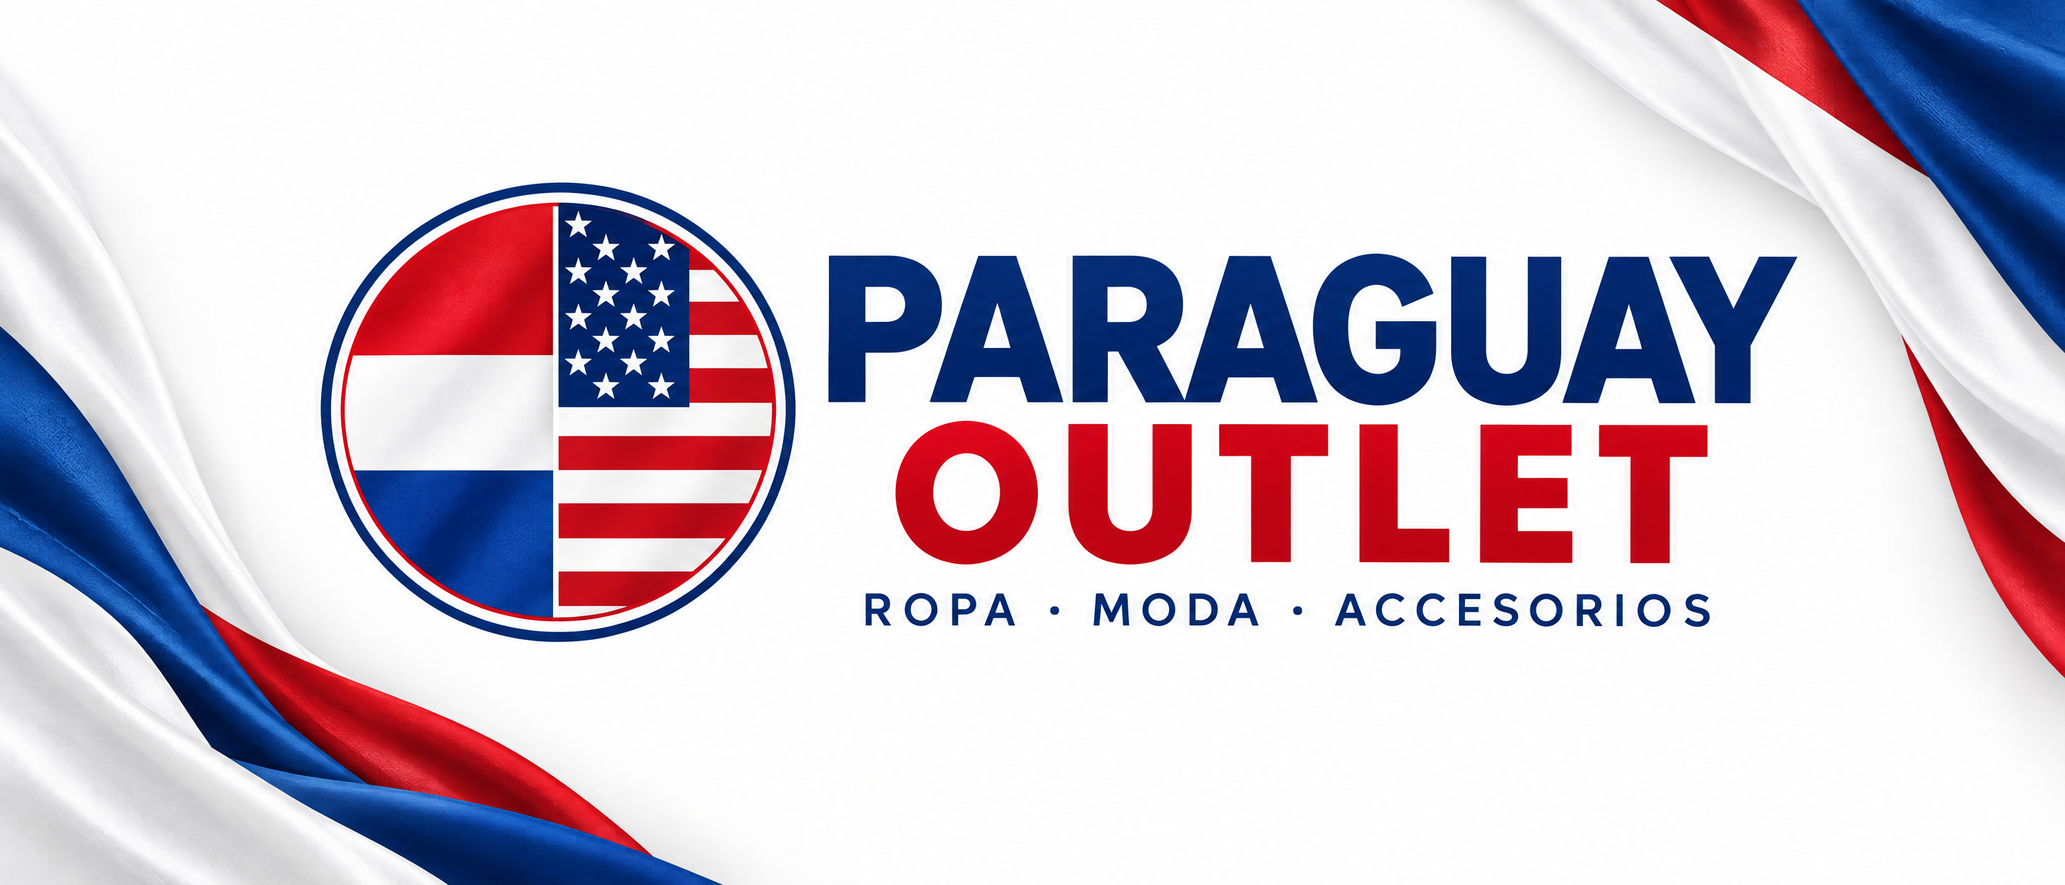
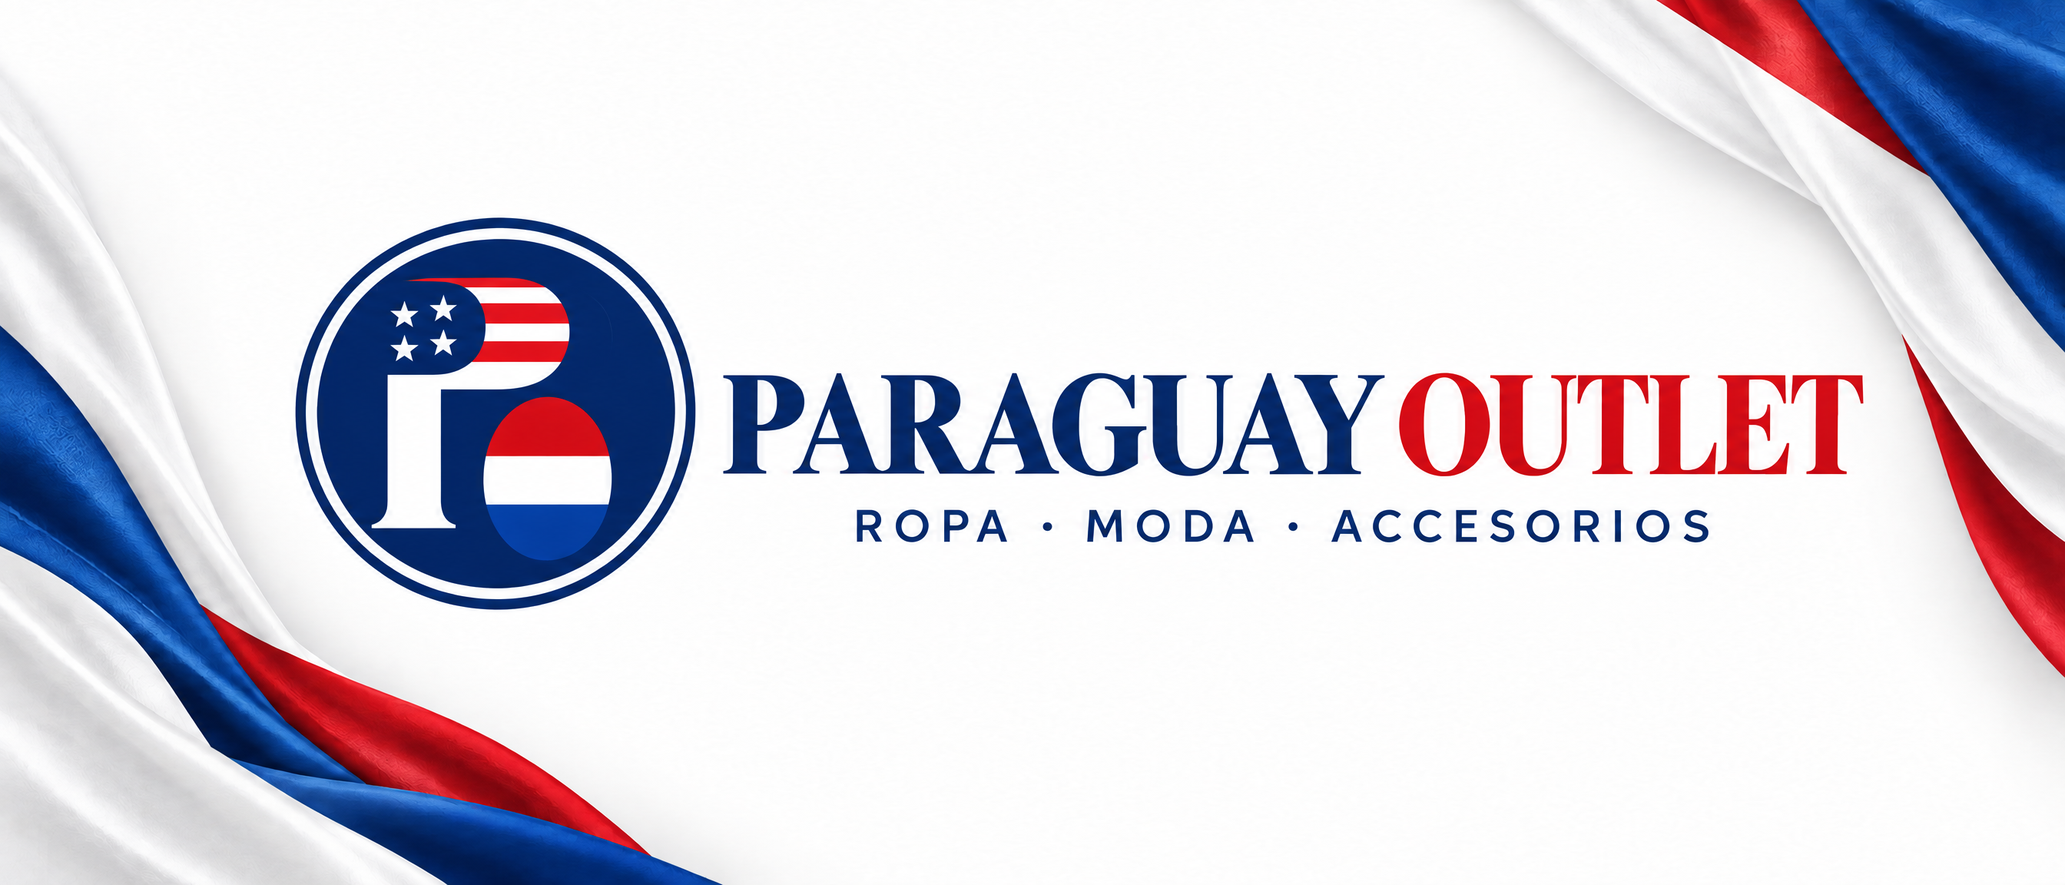
Add files via upload

diff --git a/index.html b/index.html
@@ -9,7 +9,7 @@
   <meta property="og:site_name" content="Paraguay Outlet">
   <meta property="og:title" content="Paraguay Outlet — Estilo en movimiento">
   <meta property="og:description" content="Moda, marcas y accesorios en una experiencia de compra diferente. Consultá por WhatsApp.">
-  <link rel="icon" href="./paraguay-outlet-logo.svg" type="image/svg+xml">
+  <link rel="icon" href="./paraguay-outlet-logo-icon.png" type="image/png" sizes="512x512">
   <title>Paraguay Outlet — Estilo en movimiento</title>
   <style>
     :root {
@@ -73,10 +73,8 @@
       backdrop-filter: blur(18px);
     }
     .nav-row { min-height: 78px; display: flex; align-items: center; justify-content: space-between; gap: 28px; }
-    .brand-lockup { display: inline-flex; align-items: center; gap: 11px; min-width: max-content; }
-    .brand-lockup img { width: 47px; height: 47px; object-fit: contain; border-radius: 50%; border: 0; filter: drop-shadow(0 0 8px rgba(23,59,143,.3)); }
-    .brand-name { display: grid; line-height: 1; gap: 4px; font-size: 12px; letter-spacing: .19em; font-weight: 850; }
-    .brand-name small { color: var(--brand-white); font-size: 9px; letter-spacing: .43em; font-weight: 700; }
+    .brand-lockup { display: inline-flex; align-items: center; min-width: max-content; padding: 5px 9px; border-radius: 11px; background: #fff; }
+    .brand-lockup img { width: auto; height: 46px; object-fit: contain; border-radius: 0; border: 0; filter: none; }
     .nav-links { display: flex; align-items: center; gap: clamp(17px, 3vw, 42px); }
     .nav-links a { color: rgba(255,255,255,.73); font-size: 12px; font-weight: 600; transition: color .2s ease; }
     .nav-links a:hover, .nav-links a:focus-visible { color: var(--brand-white); }
@@ -247,8 +245,8 @@
 
     footer { padding: 24px 0 32px; background: #0c0d0b; color: rgba(255,255,255,.55); }
     .footer-row { display: flex; align-items: center; justify-content: space-between; gap: 20px; }
-    .footer-brand { display: inline-flex; align-items: center; gap: 10px; color: white; font-size: 11px; font-weight: 800; letter-spacing: .15em; }
-    .footer-brand img { width: 31px; height: 31px; border-radius: 50%; object-fit: contain; }
+    .footer-brand { display: inline-flex; align-items: center; padding: 4px 8px; border-radius: 9px; background: #fff; }
+    .footer-brand img { width: auto; height: 32px; object-fit: contain; }
     .footer-note { max-width: 500px; margin: 0; text-align: right; font-size: 9px; line-height: 1.6; }
     .footer-note strong { color: var(--brand-white); }
     .wa-floating {
@@ -274,9 +272,7 @@
       .wrap { width: min(calc(100% - 32px), var(--max)); }
       .announcement { font-size: 8px; letter-spacing: .1em; }
       .nav-row { min-height: 68px; gap: 12px; }
-      .brand-lockup img { width: 40px; height: 40px; }
-      .brand-name { font-size: 10px; }
-      .brand-name small { font-size: 8px; }
+      .brand-lockup img { height: 38px; }
       .menu-toggle { display: block; margin-left: auto; }
       .nav-contact { min-height: 40px; padding: 0 12px; font-size: 10px; }
       .nav-contact .wa-icon { width: 16px; height: 16px; }
@@ -345,8 +341,7 @@
   <header class="topbar">
     <div class="wrap nav-row">
       <a class="brand-lockup" href="#inicio" aria-label="Paraguay Outlet, ir al inicio">
-        <img src="./paraguay-outlet-logo.svg" alt="" width="47" height="47">
-        <span class="brand-name">PARAGUAY<small>OUTLET</small></span>
+        <img src="./paraguay-outlet-logo-principal.png" alt="Paraguay Outlet" width="2526" height="654">
       </a>
       <button class="menu-toggle" id="menu-toggle" type="button" aria-label="Abrir menú" aria-expanded="false" aria-controls="primary-nav"><span></span><span></span></button>
       <nav class="nav-links" id="primary-nav" aria-label="Navegación principal">
@@ -430,31 +425,31 @@
         <div class="product-grid" id="product-grid">
           <article class="product-card" data-category="remeras" data-brand="Calvin Klein" data-search="calvin klein essential white tee remera blanca camiseta">
             <div class="product-visual"><img src="./calvin-klein-tee.webp" alt="Camiseta blanca Calvin Klein en fotografía editorial" loading="lazy" width="1280" height="1600"><span class="product-badge">Esencial</span><span class="product-index">01 / 07</span></div>
-            <div class="product-info"><div class="product-meta"><span>Calvin Klein</span><span class="type">Remera</span></div><h3>Essential White Tee</h3><div class="product-bottom"><div><span class="price-label">Precio de muestra</span><span class="product-price">Gs. 289.000</span></div><a class="product-ask" href="https://wa.me/595971813022" target="_blank" rel="noopener noreferrer" data-product-link="Essential White Tee · Calvin Klein" aria-label="Consultar por Essential White Tee en WhatsApp"><svg viewBox="0 0 24 24" fill="none" stroke="currentColor" stroke-width="1.8" aria-hidden="true"><path d="M5 12h14M13 5l7 7-7 7"></path></svg></a></div></div>
+            <div class="product-info"><div class="product-meta"><span>Calvin Klein</span><span class="type">Remera</span></div><h3>Essential White Tee</h3><div class="product-bottom"><div><span class="price-label">Precio de muestra</span><span class="product-price">Gs. 239.000</span></div><a class="product-ask" href="https://wa.me/595971813022" target="_blank" rel="noopener noreferrer" data-product-link="Essential White Tee · Calvin Klein" aria-label="Consultar por Essential White Tee en WhatsApp"><svg viewBox="0 0 24 24" fill="none" stroke="currentColor" stroke-width="1.8" aria-hidden="true"><path d="M5 12h14M13 5l7 7-7 7"></path></svg></a></div></div>
           </article>
           <article class="product-card" data-category="remeras" data-brand="Tommy Hilfiger" data-search="tommy hilfiger graphic tee navy remera azul camiseta">
             <div class="product-visual"><img src="./tommy-hilfiger-tee.webp" alt="Remera azul marino Tommy Hilfiger con gráfico frontal" loading="lazy" width="418" height="561"><span class="product-badge">Color esencial</span><span class="product-index">02 / 07</span></div>
-            <div class="product-info"><div class="product-meta"><span>Tommy Hilfiger</span><span class="type">Remera</span></div><h3>Graphic Tee Navy</h3><div class="product-bottom"><div><span class="price-label">Precio de muestra</span><span class="product-price">Gs. 269.000</span></div><a class="product-ask" href="https://wa.me/595971813022" target="_blank" rel="noopener noreferrer" data-product-link="Graphic Tee Navy · Tommy Hilfiger" aria-label="Consultar por Graphic Tee Navy en WhatsApp"><svg viewBox="0 0 24 24" fill="none" stroke="currentColor" stroke-width="1.8" aria-hidden="true"><path d="M5 12h14M13 5l7 7-7 7"></path></svg></a></div></div>
+            <div class="product-info"><div class="product-meta"><span>Tommy Hilfiger</span><span class="type">Remera</span></div><h3>Graphic Tee Navy</h3><div class="product-bottom"><div><span class="price-label">Precio de muestra</span><span class="product-price">Gs. 245.000</span></div><a class="product-ask" href="https://wa.me/595971813022" target="_blank" rel="noopener noreferrer" data-product-link="Graphic Tee Navy · Tommy Hilfiger" aria-label="Consultar por Graphic Tee Navy en WhatsApp"><svg viewBox="0 0 24 24" fill="none" stroke="currentColor" stroke-width="1.8" aria-hidden="true"><path d="M5 12h14M13 5l7 7-7 7"></path></svg></a></div></div>
           </article>
           <article class="product-card" data-category="polos" data-brand="Abercrombie & Fitch" data-search="abercrombie fitch signature polo pack polos">
             <div class="product-visual"><img class="contain" src="./abercrombie-polo-pack.webp" alt="Selección demostrativa de polos Abercrombie en distintos colores" loading="lazy" width="600" height="750"><span class="product-badge">Signature</span><span class="product-index">03 / 07</span></div>
-            <div class="product-info"><div class="product-meta"><span>Abercrombie &amp; Fitch</span><span class="type">Polo</span></div><h3>Signature Polo Selection</h3><div class="product-bottom"><div><span class="price-label">Precio de muestra</span><span class="product-price">Gs. 429.000</span></div><a class="product-ask" href="https://wa.me/595971813022" target="_blank" rel="noopener noreferrer" data-product-link="Signature Polo Selection · Abercrombie & Fitch" aria-label="Consultar por Signature Polo Selection en WhatsApp"><svg viewBox="0 0 24 24" fill="none" stroke="currentColor" stroke-width="1.8" aria-hidden="true"><path d="M5 12h14M13 5l7 7-7 7"></path></svg></a></div></div>
+            <div class="product-info"><div class="product-meta"><span>Abercrombie &amp; Fitch</span><span class="type">Polo</span></div><h3>Signature Polo Selection</h3><div class="product-bottom"><div><span class="price-label">Precio de muestra</span><span class="product-price">Gs. 250.000</span></div><a class="product-ask" href="https://wa.me/595971813022" target="_blank" rel="noopener noreferrer" data-product-link="Signature Polo Selection · Abercrombie & Fitch" aria-label="Consultar por Signature Polo Selection en WhatsApp"><svg viewBox="0 0 24 24" fill="none" stroke="currentColor" stroke-width="1.8" aria-hidden="true"><path d="M5 12h14M13 5l7 7-7 7"></path></svg></a></div></div>
           </article>
           <article class="product-card" data-category="shorts" data-brand="Polo Ralph Lauren" data-search="polo ralph lauren chino short short pantalón corto">
             <div class="product-visual"><img src="./polo-ralph-lauren-shorts.webp" alt="Short chino Polo Ralph Lauren en tono azul marino" loading="lazy" width="1333" height="1600"><span class="product-badge">Weekend edit</span><span class="product-index">04 / 07</span></div>
-            <div class="product-info"><div class="product-meta"><span>Polo Ralph Lauren</span><span class="type">Short</span></div><h3>Chino Short Classic</h3><div class="product-bottom"><div><span class="price-label">Precio de muestra</span><span class="product-price">Gs. 389.000</span></div><a class="product-ask" href="https://wa.me/595971813022" target="_blank" rel="noopener noreferrer" data-product-link="Chino Short Classic · Polo Ralph Lauren" aria-label="Consultar por Chino Short Classic en WhatsApp"><svg viewBox="0 0 24 24" fill="none" stroke="currentColor" stroke-width="1.8" aria-hidden="true"><path d="M5 12h14M13 5l7 7-7 7"></path></svg></a></div></div>
+            <div class="product-info"><div class="product-meta"><span>Polo Ralph Lauren</span><span class="type">Short</span></div><h3>Chino Short Classic</h3><div class="product-bottom"><div><span class="price-label">Precio de muestra</span><span class="product-price">Gs. 249.000</span></div><a class="product-ask" href="https://wa.me/595971813022" target="_blank" rel="noopener noreferrer" data-product-link="Chino Short Classic · Polo Ralph Lauren" aria-label="Consultar por Chino Short Classic en WhatsApp"><svg viewBox="0 0 24 24" fill="none" stroke="currentColor" stroke-width="1.8" aria-hidden="true"><path d="M5 12h14M13 5l7 7-7 7"></path></svg></a></div></div>
           </article>
           <article class="product-card" data-category="pantalones" data-brand="Paraguay Outlet" data-search="pantalón everyday casual pantalones outfit">
             <div class="product-visual"><img src="./pantalon-everyday.webp" alt="Look de moda casual con pantalón de tono tierra" loading="lazy" width="1200" height="1600"><span class="product-badge">Daily fit</span><span class="product-index">05 / 07</span></div>
-            <div class="product-info"><div class="product-meta"><span>Paraguay Outlet</span><span class="type">Pantalón</span></div><h3>Everyday Casual Trouser</h3><div class="product-bottom"><div><span class="price-label">Precio de muestra</span><span class="product-price">Gs. 359.000</span></div><a class="product-ask" href="https://wa.me/595971813022" target="_blank" rel="noopener noreferrer" data-product-link="Everyday Casual Trouser · Paraguay Outlet" aria-label="Consultar por Everyday Casual Trouser en WhatsApp"><svg viewBox="0 0 24 24" fill="none" stroke="currentColor" stroke-width="1.8" aria-hidden="true"><path d="M5 12h14M13 5l7 7-7 7"></path></svg></a></div></div>
+            <div class="product-info"><div class="product-meta"><span>Paraguay Outlet</span><span class="type">Pantalón</span></div><h3>Everyday Casual Trouser</h3><div class="product-bottom"><div><span class="price-label">Precio de muestra</span><span class="product-price">Gs. 247.000</span></div><a class="product-ask" href="https://wa.me/595971813022" target="_blank" rel="noopener noreferrer" data-product-link="Everyday Casual Trouser · Paraguay Outlet" aria-label="Consultar por Everyday Casual Trouser en WhatsApp"><svg viewBox="0 0 24 24" fill="none" stroke="currentColor" stroke-width="1.8" aria-hidden="true"><path d="M5 12h14M13 5l7 7-7 7"></path></svg></a></div></div>
           </article>
           <article class="product-card" data-category="accesorios" data-brand="Polo Ralph Lauren" data-search="polo ralph lauren medias sport calcetines socks">
             <div class="product-visual"><img class="contain" src="./polo-ralph-lauren-socks.webp" alt="Medias deportivas Polo Ralph Lauren en distintos tonos" loading="lazy" width="1200" height="900"><span class="product-badge">Everyday essential</span><span class="product-index">06 / 07</span></div>
-            <div class="product-info"><div class="product-meta"><span>Polo Ralph Lauren</span><span class="type">Medias</span></div><h3>Sport Crew Socks</h3><div class="product-bottom"><div><span class="price-label">Precio de muestra</span><span class="product-price">Gs. 99.000</span></div><a class="product-ask" href="https://wa.me/595971813022" target="_blank" rel="noopener noreferrer" data-product-link="Sport Crew Socks · Polo Ralph Lauren" aria-label="Consultar por Sport Crew Socks en WhatsApp"><svg viewBox="0 0 24 24" fill="none" stroke="currentColor" stroke-width="1.8" aria-hidden="true"><path d="M5 12h14M13 5l7 7-7 7"></path></svg></a></div></div>
+            <div class="product-info"><div class="product-meta"><span>Polo Ralph Lauren</span><span class="type">Medias</span></div><h3>Sport Crew Socks</h3><div class="product-bottom"><div><span class="price-label">Precio de muestra</span><span class="product-price">Gs. 235.000</span></div><a class="product-ask" href="https://wa.me/595971813022" target="_blank" rel="noopener noreferrer" data-product-link="Sport Crew Socks · Polo Ralph Lauren" aria-label="Consultar por Sport Crew Socks en WhatsApp"><svg viewBox="0 0 24 24" fill="none" stroke="currentColor" stroke-width="1.8" aria-hidden="true"><path d="M5 12h14M13 5l7 7-7 7"></path></svg></a></div></div>
           </article>
           <article class="product-card" data-category="accesorios" data-brand="Polo Ralph Lauren" data-search="polo ralph lauren kepi gorra cap baseball">
             <div class="product-visual"><img class="contain" src="./polo-ralph-lauren-kepi.webp" alt="Kepi azul marino Polo Ralph Lauren" loading="lazy" width="900" height="900"><span class="product-badge">Finishing touch</span><span class="product-index">07 / 07</span></div>
-            <div class="product-info"><div class="product-meta"><span>Polo Ralph Lauren</span><span class="type">Kepi</span></div><h3>Chino Baseball Cap</h3><div class="product-bottom"><div><span class="price-label">Precio de muestra</span><span class="product-price">Gs. 279.000</span></div><a class="product-ask" href="https://wa.me/595971813022" target="_blank" rel="noopener noreferrer" data-product-link="Chino Baseball Cap · Polo Ralph Lauren" aria-label="Consultar por Chino Baseball Cap en WhatsApp"><svg viewBox="0 0 24 24" fill="none" stroke="currentColor" stroke-width="1.8" aria-hidden="true"><path d="M5 12h14M13 5l7 7-7 7"></path></svg></a></div></div>
+            <div class="product-info"><div class="product-meta"><span>Polo Ralph Lauren</span><span class="type">Kepi</span></div><h3>Chino Baseball Cap</h3><div class="product-bottom"><div><span class="price-label">Precio de muestra</span><span class="product-price">Gs. 238.000</span></div><a class="product-ask" href="https://wa.me/595971813022" target="_blank" rel="noopener noreferrer" data-product-link="Chino Baseball Cap · Polo Ralph Lauren" aria-label="Consultar por Chino Baseball Cap en WhatsApp"><svg viewBox="0 0 24 24" fill="none" stroke="currentColor" stroke-width="1.8" aria-hidden="true"><path d="M5 12h14M13 5l7 7-7 7"></path></svg></a></div></div>
           </article>
         </div>
         <div class="empty-state" id="empty-state" hidden><strong>Esta selección sigue creciendo.</strong><span>Consultanos por WhatsApp para preguntar por otras marcas o categorías.</span><br><a href="https://wa.me/595971813022" target="_blank" rel="noopener noreferrer">Consultar disponibilidad ↗</a></div>
@@ -490,7 +485,7 @@
   </main>
 
   <footer>
-    <div class="wrap footer-row"><a class="footer-brand" href="#inicio"><img src="./paraguay-outlet-logo.svg" alt="" width="31" height="31">PARAGUAY OUTLET</a><p class="footer-note"><strong>Catálogo de demostración.</strong> Las fotografías, precios y productos son ilustrativos; confirma disponibilidad y precio real por WhatsApp.</p></div>
+    <div class="wrap footer-row"><a class="footer-brand" href="#inicio" aria-label="Paraguay Outlet, volver al inicio"><img src="./paraguay-outlet-logo-principal.png" alt="" width="2526" height="654"></a><p class="footer-note"><strong>Catálogo de demostración.</strong> Las fotografías, precios y productos son ilustrativos; confirma disponibilidad y precio real por WhatsApp.</p></div>
   </footer>
 
   <a class="wa-floating" href="https://wa.me/595971813022" target="_blank" rel="noopener noreferrer" aria-label="Escribir ahora a Paraguay Outlet por WhatsApp">

diff --git a/README.md b/README.md
@@ -1,14 +1,19 @@
 # Paraguay Outlet — demostración para GitHub Pages
 
-Tienda demostrativa en HTML estático: estructura, estilos y filtros están dentro de `index.html`. El logo vectorial `paraguay-outlet-logo.svg`, las fotos de productos y los recursos sociales están al mismo nivel, sin carpetas ni dependencias. Para GitHub Pages, sube `index.html`, `paraguay-outlet-logo.svg`, este README y las imágenes WebP que usa el catálogo a la raíz del repositorio. No hace falta instalar dependencias. En GitHub, activa **Settings → Pages** y publica desde la rama y raíz elegidas.
+Tienda demostrativa en HTML estático: estructura, estilos y filtros están dentro de `index.html`. El logo principal, el icono, las imágenes sociales y las fotos de producto están en el mismo nivel que `index.html`, sin carpetas de assets ni dependencias. Para GitHub Pages, sube `index.html`, `README.md`, `TODO.md`, `manus-routes.json`, los recursos gráficos y las imágenes WebP a la raíz del repositorio. No hace falta instalar dependencias. En GitHub, activa **Settings → Pages** y publica desde la rama y raíz elegidas.
 
 ## Nueva identidad visual
 
-El logo circular combina los campos de las banderas de Estados Unidos y Paraguay, con una paleta blanca, roja y azul. Está en SVG con fondo transparente para mantener nitidez como favicon y en el encabezado. El avatar `paraguay-outlet-instagram-perfil.png` (1920 × 1920 px) ahora lleva el escudo de las banderas y el sello tipográfico “PARAGUAY OUTLET” debajo. La portada `paraguay-outlet-facebook-portada.png` (2688 × 1152 px) incluye el mismo nombre. Las dos piezas están listas para subir a las redes; Facebook puede recortar la portada de forma distinta según el dispositivo, por eso la identidad está centrada.
+- `paraguay-outlet-logo-principal.png`: logo horizontal en PNG con fondo transparente, colores azul, rojo y blanco y referencias sutiles a las banderas de Paraguay y Estados Unidos. En el encabezado y el pie se muestra sobre un respaldo blanco para mantener el contraste.
+- `paraguay-outlet-logo-icon.png`: emblema compacto cuadrado utilizado como favicon del sitio.
+- `paraguay-outlet-instagram-perfil.png`: avatar cuadrado con el emblema PO y el nombre completo, preparado para el recorte circular de Instagram.
+- `paraguay-outlet-facebook-portada.png`: portada panorámica coordinada con el nuevo logo, conservando el fondo textil y la frase “ROPA · MODA · ACCESORIOS”.
+
+Las piezas sociales mantienen la paleta blanca, roja y azul y no usan tonos dorados. Facebook puede recortar la portada de forma distinta según el dispositivo; por eso el logo permanece centrado en el área segura.
 
 ## Antes de usarla como tienda real
 
-- Los importes de las tarjetas son **precios de muestra**. Actualízalos con tus precios reales y verifica talles, colores y disponibilidad.
+- Los siete importes de las tarjetas son **precios de muestra**, variados entre **Gs. 235.000 y Gs. 250.000**. Actualízalos con tus precios reales y verifica talles, colores y disponibilidad.
 - El botón principal, el acceso flotante y las consultas de producto abren directamente [WhatsApp Paraguay Outlet](https://wa.me/595971813022). Los botones de cada prenda preparan una pregunta con el nombre del producto.
 - En el pie se muestran Instagram, TikTok y Facebook como redes de la tienda, pero todavía no enlazan a perfiles específicos porque no se proporcionaron las URL de usuario. Añade tus enlaces reales en `index.html` cuando los tengas.
 - Las fotos de producto son material ilustrativo recopilado en una búsqueda de imágenes y algunas provienen de las fotos de producto de esta conversación. Verifica los derechos de uso comercial o reemplázalas por fotografías propias antes de operar la tienda públicamente.

diff --git a/TODO.md b/TODO.md
@@ -13,8 +13,8 @@
 ## Promociones, contacto e identidad social
 - [x] Añadir secciones promocionales para novedades, productos destacados y ofertas del outlet.
 - [x] Mostrar información de contacto, redes sociales y acceso visible a consultas o pedidos; incluir un botón grande y llamativo que abra el enlace directo de WhatsApp `https://wa.me/595971813022`.
-- [x] Sustituir el logo dorado por una identidad de Paraguay Outlet en blanco, rojo y azul, integrando referencias visibles a las banderas de Paraguay y Estados Unidos en el favicon, encabezado y pie.
-- [x] Crear dos imágenes sociales coordinadas y sin tonos dorados: una cuadrada lista para el perfil de Instagram y una portada panorámica para Facebook, ambas con referencias a las dos banderas y la paleta blanca, roja y azul.
+- [x] Rediseñar el logo de Paraguay Outlet para que sea más elegante, profesional e impactante, manteniendo los colores blanco, rojo y azul y las referencias a las banderas de Paraguay y Estados Unidos; integrarlo en el favicon, encabezado y pie.
+- [x] Crear imágenes sociales coherentes con el nuevo logo y la paleta blanca, roja y azul, sin tonos dorados: avatar cuadrado para Instagram y portada panorámica para Facebook.
 
 ## Entrega portable
 - [x] Mantener una estructura estática y portable, con todos los archivos del sitio ubicados en el mismo nivel que `index.html`, sin carpetas de assets, para facilitar la publicación en GitHub.
